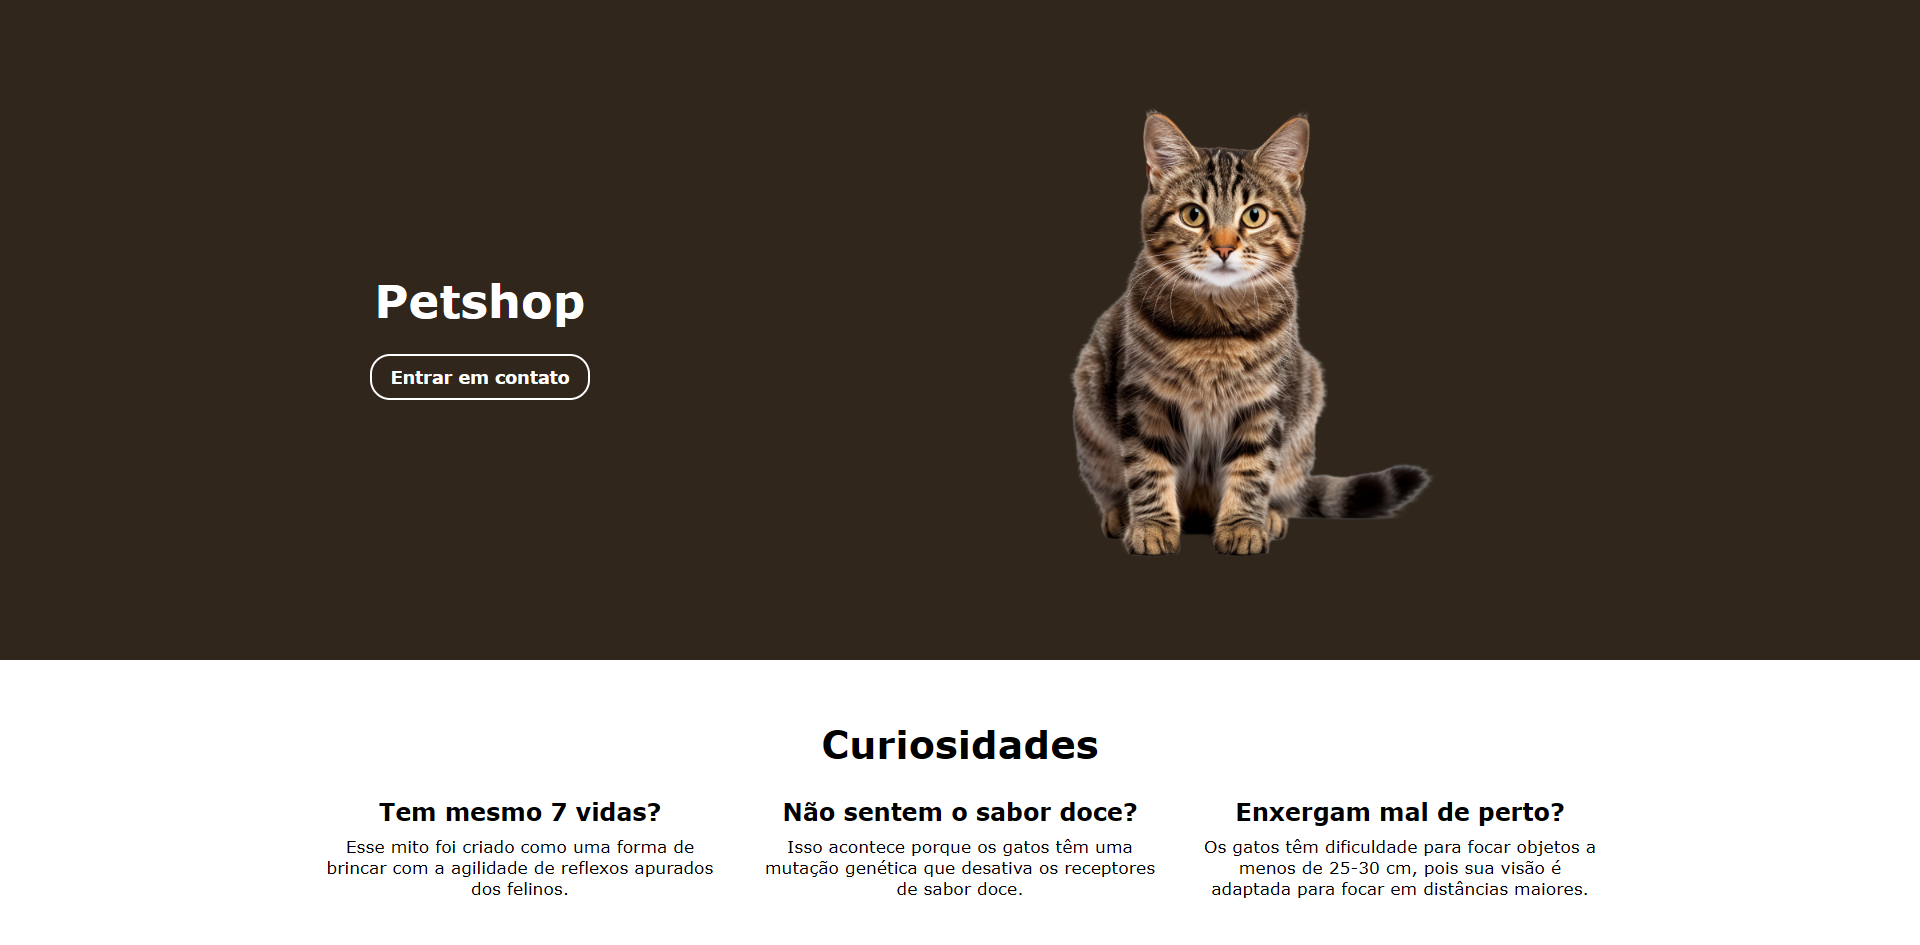
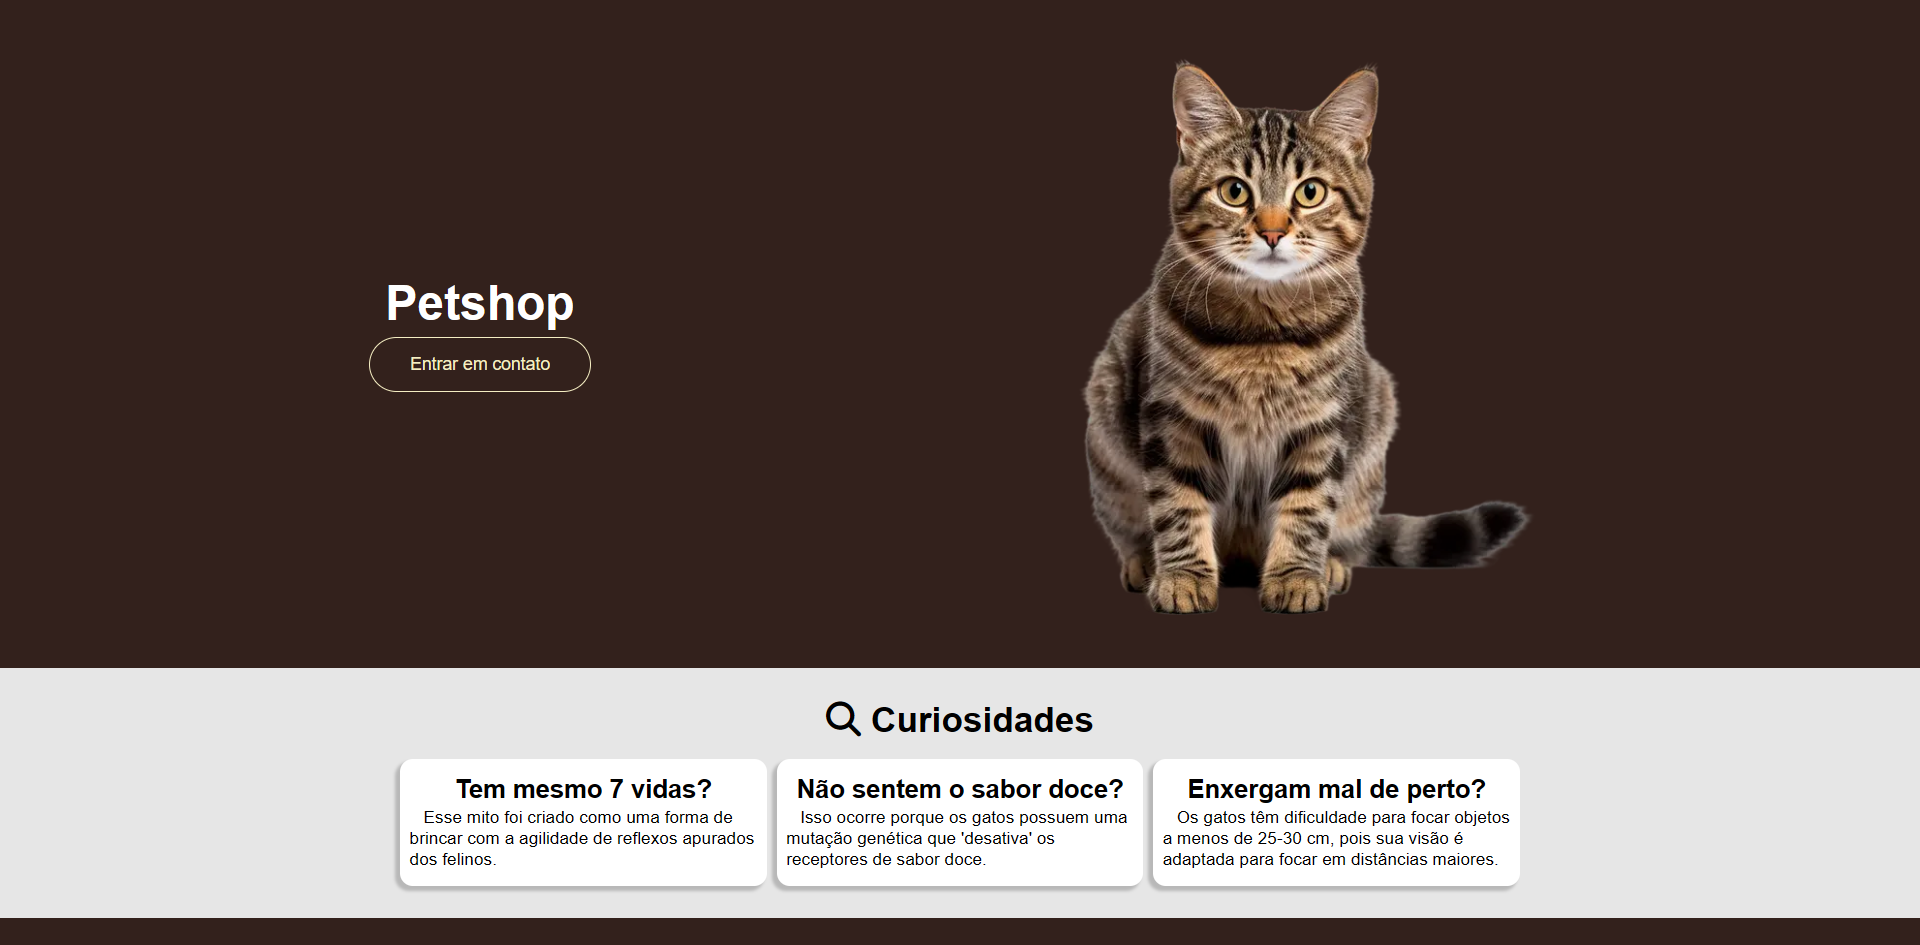
Mudança na foto de perfil, no projeto petshop e na ordem dos projetos

diff --git a/index.html b/index.html
@@ -21,7 +21,7 @@
     <main>
         <section class="perfil">
             <h2><i class="fa-solid fa-lightbulb"></i> Olá!</h2>
-            <img src="./src/img/foto.jpeg" alt="Minha foto de perfil" />
+            <img src="./src/img/foto-perfil.png" alt="Minha foto de perfil" />
             <p>Me chamo Pedro Rocha Araujo, estou graduando em Gestão de Tecnologia da Informação <span>6/6</span> e sou desenvolvedor Front-end.</p>
         </section> 
         <hr />
@@ -51,7 +51,14 @@
         <section class="projetos">
             <h2><i class="fa-solid fa-rocket"></i> Projetos</h2>
             <div class="projetos">
-
+                
+                <div class="projeto">
+                    <h3>Imobiliária</h3>
+                    <a target="_blank" href="https://github.com/Pedro-Rocha-Araujo/venda-de-imoveis">
+                        <img src="./src/img/projeto-imobiliaria.png" alt="Imagem do projeto Desenvolvido para imobiliária, feito em React, Node e MongoDb"> 
+                    </a>
+                </div>
+                
                 <div class="projeto">
                     <h3>Finanças</h3>
                     <a target="_blank" href="https://github.com/Pedro-Rocha-Araujo/projeto-financas">
@@ -66,12 +73,6 @@
                     </a>
                 </div>
 
-                <div class="projeto">
-                    <h3>Imobiliária</h3>
-                    <a target="_blank" href="https://github.com/Pedro-Rocha-Araujo/venda-de-imoveis">
-                        <img src="./src/img/projeto-imobiliaria.png" alt="Imagem do projeto Desenvolvido para imobiliária, feito em React, Node e MongoDb"> 
-                    </a>
-                </div>
 
                 <div class="projeto">
                     <h3>Barbearia</h3>
@@ -89,7 +90,7 @@
 
                 <div class="projeto">
                     <h3>PetShop</h3>
-                    <a target="_blank" href="https://github.com/Pedro-Rocha-Araujo/projeto-pet-shop">                        
+                    <a target="_blank" href="https://github.com/Pedro-Rocha-Araujo/petshop-nextjs">                        
                         <img src="./src/img/projeto-pet.png" alt="Link para o projeto Petshop">
                     </a>
                 </div>
